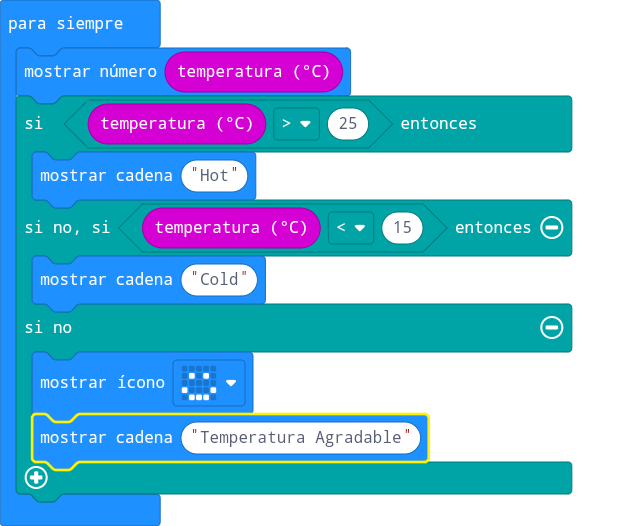
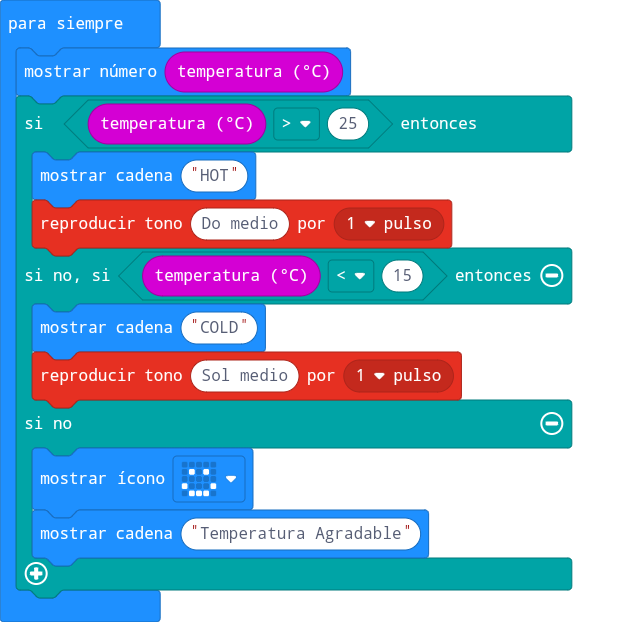
Actualizar main.blocks, main.ts

diff --git a/main.ts b/main.ts
@@ -1,9 +1,11 @@
 basic.forever(function () {
     basic.showNumber(input.temperature())
     if (input.temperature() > 25) {
-        basic.showString("Hot")
+        basic.showString("HOT")
+        music.playTone(262, music.beat(BeatFraction.Whole))
     } else if (input.temperature() < 15) {
-        basic.showString("Cold")
+        basic.showString("COLD")
+        music.playTone(392, music.beat(BeatFraction.Whole))
     } else {
         basic.showIcon(IconNames.Happy)
         basic.showString("Temperatura Agradable")
